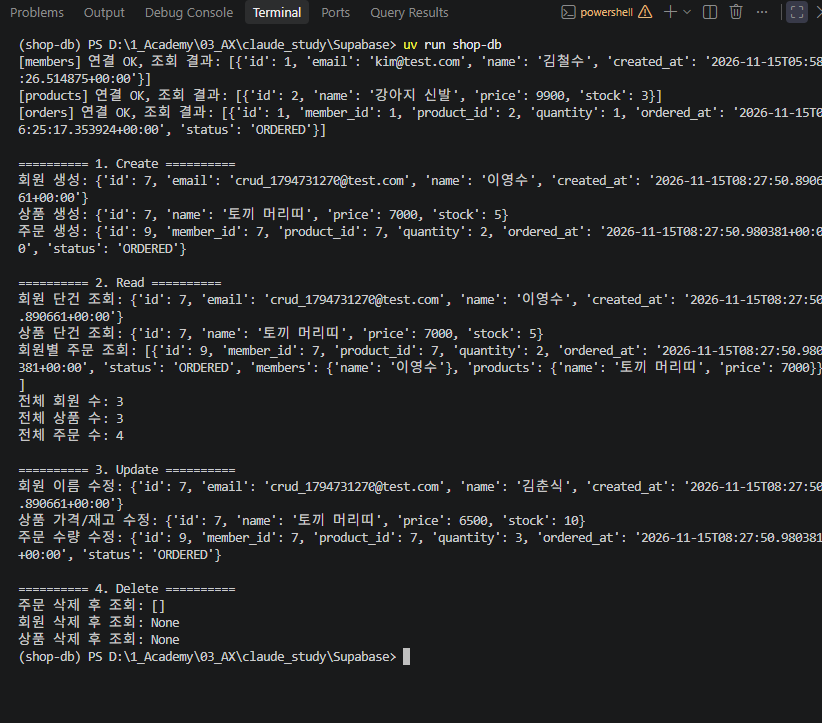
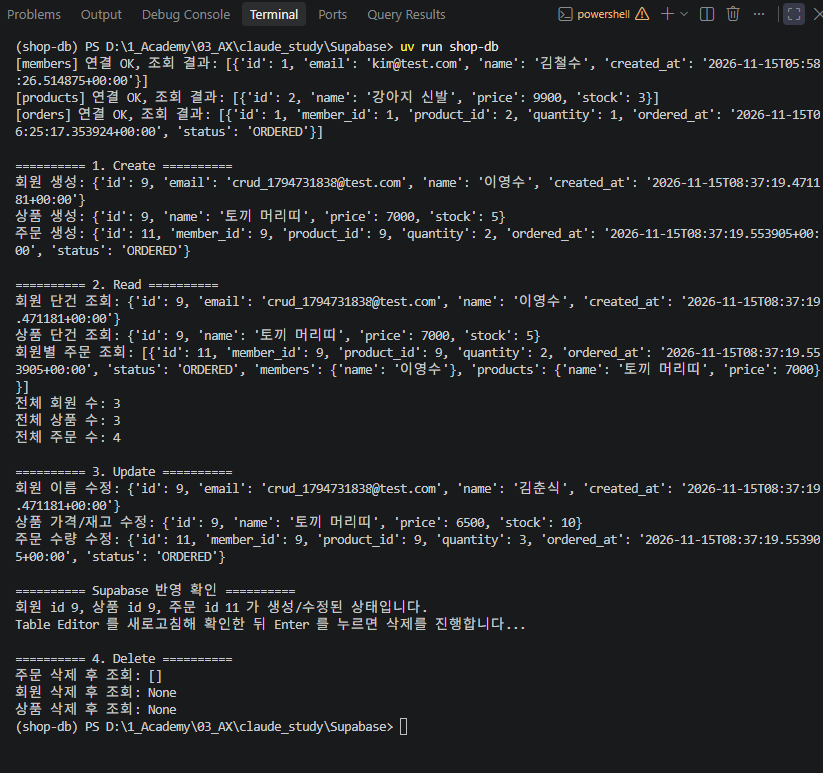
docs: Python CRUD Supabase 반영 확인 캡처 추가
- 일시정지 상태의 members / products / orders 테이블 캡처
- 터미널 실행 결과 캡처 갱신

refs #6

diff --git a/README.md b/README.md
@@ -151,4 +151,13 @@ Supabase Python SDK(supabase-py)로 3개 테이블의 CRUD를 구현했습니다
 마지막에 FK 순서(주문 → 회원 → 상품)대로 삭제해 기존 데이터에는 영향을 주지 않습니다.
 삭제 직전에 실행이 멈추므로, 이때 Supabase Table Editor에서 시연 데이터가 실제로 반영됐는지 확인한 뒤 Enter를 누르면 삭제가 진행됩니다.
 
+#### 터미널 실행 결과
 ![Python CRUD 실행 결과](docs/images/python_crud_run.png)
+
+#### Supabase 반영 확인 (삭제 전 일시정지 상태)
+Python에서 생성·수정한 시연 데이터(회원 id 9 김춘식, 상품 id 9 토끼 머리띠 6500원·10개, 주문 id 11 수량 3)가
+Supabase 테이블에 실제로 반영된 화면입니다.
+
+| members | products | orders |
+| --- | --- | --- |
+| ![](docs/images/python_crud_run_db_members.png) | ![](docs/images/python_crud_run_db_products.png) | ![](docs/images/python_crud_run_db_orders.png) |
